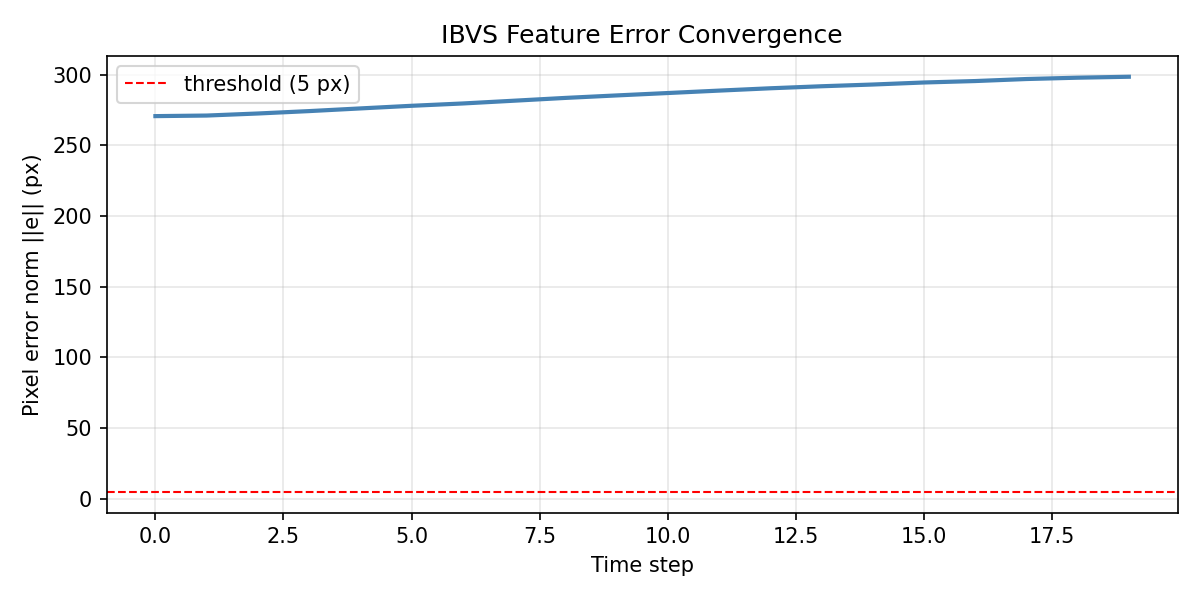
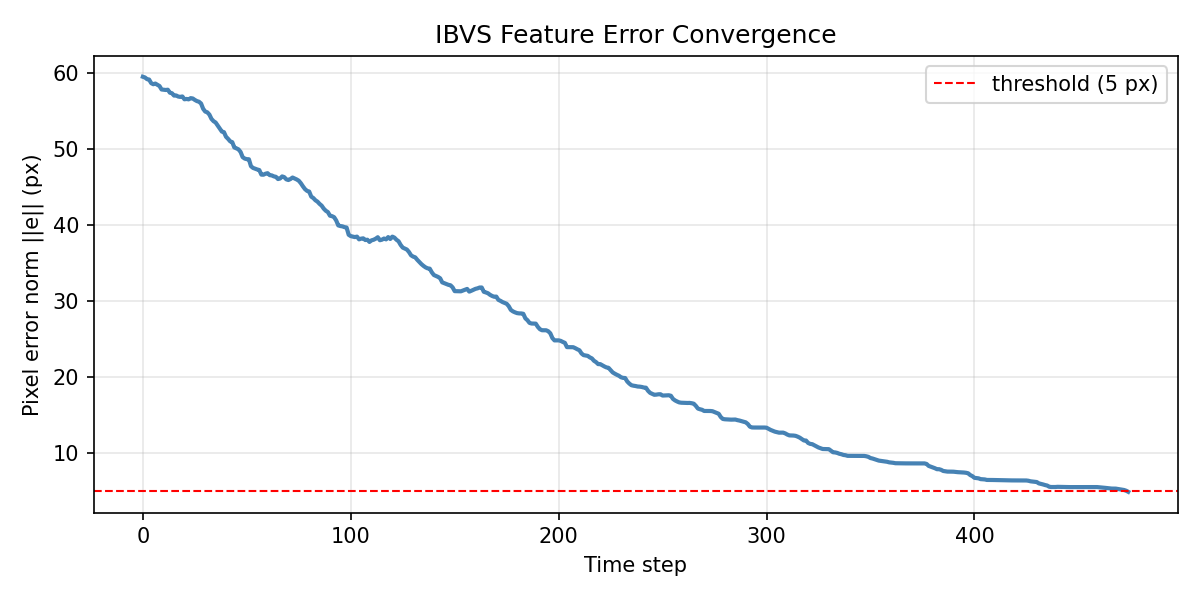
修改坐标系转换bug+调参，成功收敛

diff --git a/controller.py b/controller.py
@@ -19,12 +19,23 @@ class IBVSController:
 
     def _interaction_matrix(self, u, v):
         """
-        Build 2x6 image interaction matrix Ls for a single point feature.
-        Inputs u, v are pixel coordinates.
+        Build 2×6 image interaction matrix Ls for a single point feature.
+
+        Standard derivation (Chaumette & Hutchinson):
+          x = (u - cx) / fx   — normalised image x (right → positive)
+          y = (v - cy) / fy   — normalised image y (down  → positive)
+
+          Ls = [[-1/Z,  0,   x/Z,  x*y,      -(1+x²),  y ],
+                [  0, -1/Z,  y/Z,  1+y²,     -x*y,    -x ]]
+
+        This matrix is expressed in the IBVS camera frame where:
+          X = image-right direction,  Y = image-down direction,  Z = forward (optical axis).
+
+        The camera-to-world rotation is handled externally in compute_joint_velocity()
+        via the T_wc argument from Simulation.get_camera_frame().
         """
-        # Normalised image coordinates
-        x = (u - self.cx) / self.fx
-        y = (v - self.cy) / self.fy
+        x = (u - self.cx) / self.fx   # normalised x (rightward)
+        y = (v - self.cy) / self.fy   # normalised y (downward)
         Z = self.Z
 
         Ls = np.array([
@@ -41,23 +52,39 @@ class IBVSController:
     def compute_camera_velocity(self, s, s_star):
         """
         Compute desired camera velocity v_c from pixel error.
-        s, s_star: [u, v] arrays
-        Returns v_c (6,) — [vx, vy, vz, wx, wy, wz]
+
+        s, s_star : [u, v] arrays (pixel coordinates)
+        Returns v_c (6,) — [vx, vy, vz, wx, wy, wz] in the IBVS camera frame.
         """
         e = s - s_star                              # (2,)
-        Ls = self._interaction_matrix(s[0], s[1])   # (2, 6)
-        Ls_pinv = self._dls_pinv(Ls)                # (6, 2)
-        v_c = -self.lam * Ls_pinv @ e               # (6,)
+        Ls = self._interaction_matrix(s[0], s[1])  # (2, 6)
+        Ls_pinv = self._dls_pinv(Ls)               # (6, 2)
+        v_c = -self.lam * Ls_pinv @ e              # (6,) in camera frame
         return v_c
 
-    def compute_joint_velocity(self, v_c, J):
+    def compute_joint_velocity(self, v_c, J, T_wc=None):
         """
-        Map camera velocity v_c to joint velocities via Jacobian pseudo-inverse.
-        J: (6, 6) Jacobian matrix
-        Returns q_dot (6,)
+        Map camera-frame velocity v_c to joint velocities via Jacobian pseudo-inverse.
+
+        Parameters
+        ----------
+        v_c   : (6,) camera-frame velocity from compute_camera_velocity()
+        J     : (6, 6) Jacobian in **world** frame (from Simulation.get_jacobian())
+        T_wc  : (6, 6) camera-to-world velocity transform (from Simulation.get_camera_frame()).
+                If None the identity is used (assumes J is already in camera frame).
+
+        Returns
+        -------
+        q_dot : (6,) joint velocities
         """
-        J_pinv = self._dls_pinv(J.T).T              # DLS pinv of 6x6 J
-        q_dot = J_pinv @ v_c                        # (6,)
+        # Convert v_c from camera frame to world frame so it matches J's frame.
+        if T_wc is not None:
+            v_world = T_wc @ v_c        # (6,) in world frame
+        else:
+            v_world = v_c
+
+        J_pinv = self._dls_pinv(J)     # (6, 6): J^T (J J^T + μ²I)^{-1}
+        q_dot = J_pinv @ v_world       # (6,)
         return q_dot
 
     def is_converged(self, s, s_star, threshold=5.0):

diff --git a/simulation.py b/simulation.py
@@ -172,8 +172,44 @@ class Simulation:
         # jac_lin/jac_rot are (3, numDof=12); keep only the 6 arm-joint columns
         jac_lin = np.array(jac_lin)[:, :6]   # (3, 6)
         jac_rot = np.array(jac_rot)[:, :6]   # (3, 6)
-        J = np.vstack([jac_lin, jac_rot])     # (6, 6)
+        J = np.vstack([jac_lin, jac_rot])     # (6, 6) — velocity in WORLD frame
         return J
+
+    def get_camera_frame(self):
+        """
+        Return a 6×6 matrix T_wc that maps camera-frame velocity to world-frame velocity.
+
+        PyBullet's calculateJacobian gives camera velocity expressed in the **world** frame,
+        but the IBVS interaction matrix is derived in the **camera** frame
+        (X = image-right, Y = image-down, Z = optical axis / forward).
+
+        Use T_wc to convert before applying the Jacobian pseudo-inverse:
+            v_world = T_wc @ v_cam
+            q_dot   = J_world_pinv @ v_world
+        """
+        link_state = p.getLinkState(self.robot_id, self.camera_link_index,
+                                    computeForwardKinematics=True)
+        cam_orn = link_state[5]
+        rot_mat = np.array(p.getMatrixFromQuaternion(cam_orn)).reshape(3, 3)
+
+        # Reconstruct the same rendering frame axes used in get_camera_image()
+        forward = rot_mat[:, 2]          # optical axis (cam local-Z in world)
+        world_up = np.array([1.0, 0.0, 0.0])
+        if abs(np.dot(forward, world_up)) > 0.9:
+            world_up = np.array([0.0, 1.0, 0.0])
+        right = np.cross(forward, world_up)
+        right /= np.linalg.norm(right)
+        up = np.cross(right, forward)
+        up /= np.linalg.norm(up)
+
+        # IBVS camera frame: X = right (image u↑), Y = -up (image v↑), Z = forward
+        # R_wc maps camera-frame vectors to world frame (columns = cam axes in world)
+        R_wc = np.column_stack([right, -up, forward])   # (3, 3)
+
+        T_wc = np.zeros((6, 6))
+        T_wc[:3, :3] = R_wc   # linear velocity transform
+        T_wc[3:, 3:] = R_wc   # angular velocity transform
+        return T_wc
 
     def set_joint_velocities(self, q_dot, max_vel=1.0):
         q_dot = np.clip(q_dot, -max_vel, max_vel)

diff --git a/main.py b/main.py
@@ -7,7 +7,10 @@ from controller import IBVSController
 from plotter import ErrorPlotter
 
 # ── Tunable parameters ────────────────────────────────────────────────────────
-LAMBDA       = 0.3    # IBVS proportional gain
+LAMBDA       = 0.003  # IBVS proportional gain
+              # v_c is in physical units (m/s, rad/s) while pixel errors are
+              # O(100 px).  With fx≈554 and Z≈0.5 m the effective gain on joint
+              # velocities is ~140×LAMBDA, so 0.003 keeps q_dot ≲ 0.5 rad/s.
 Z_EST        = 0.5    # estimated target depth from camera (metres)
 DAMPING      = 1e-4   # DLS damping coefficient
 CONVERGE_THR = 5.0    # pixel error threshold to trigger grasp (pixels)
@@ -49,9 +52,10 @@ def main():
         plotter.update(e)
 
         # ── Step 3: compute control ───────────────────────────────────────────
-        J   = sim.get_jacobian()
-        v_c = controller.compute_camera_velocity(s, s_star)
-        q_dot = controller.compute_joint_velocity(v_c, J)
+        J     = sim.get_jacobian()       # (6,6) world frame
+        T_wc  = sim.get_camera_frame()  # (6,6) camera→world velocity transform
+        v_c   = controller.compute_camera_velocity(s, s_star)
+        q_dot = controller.compute_joint_velocity(v_c, J, T_wc)
 
         # ── Step 4: drive joints ──────────────────────────────────────────────
         sim.set_joint_velocities(q_dot)
